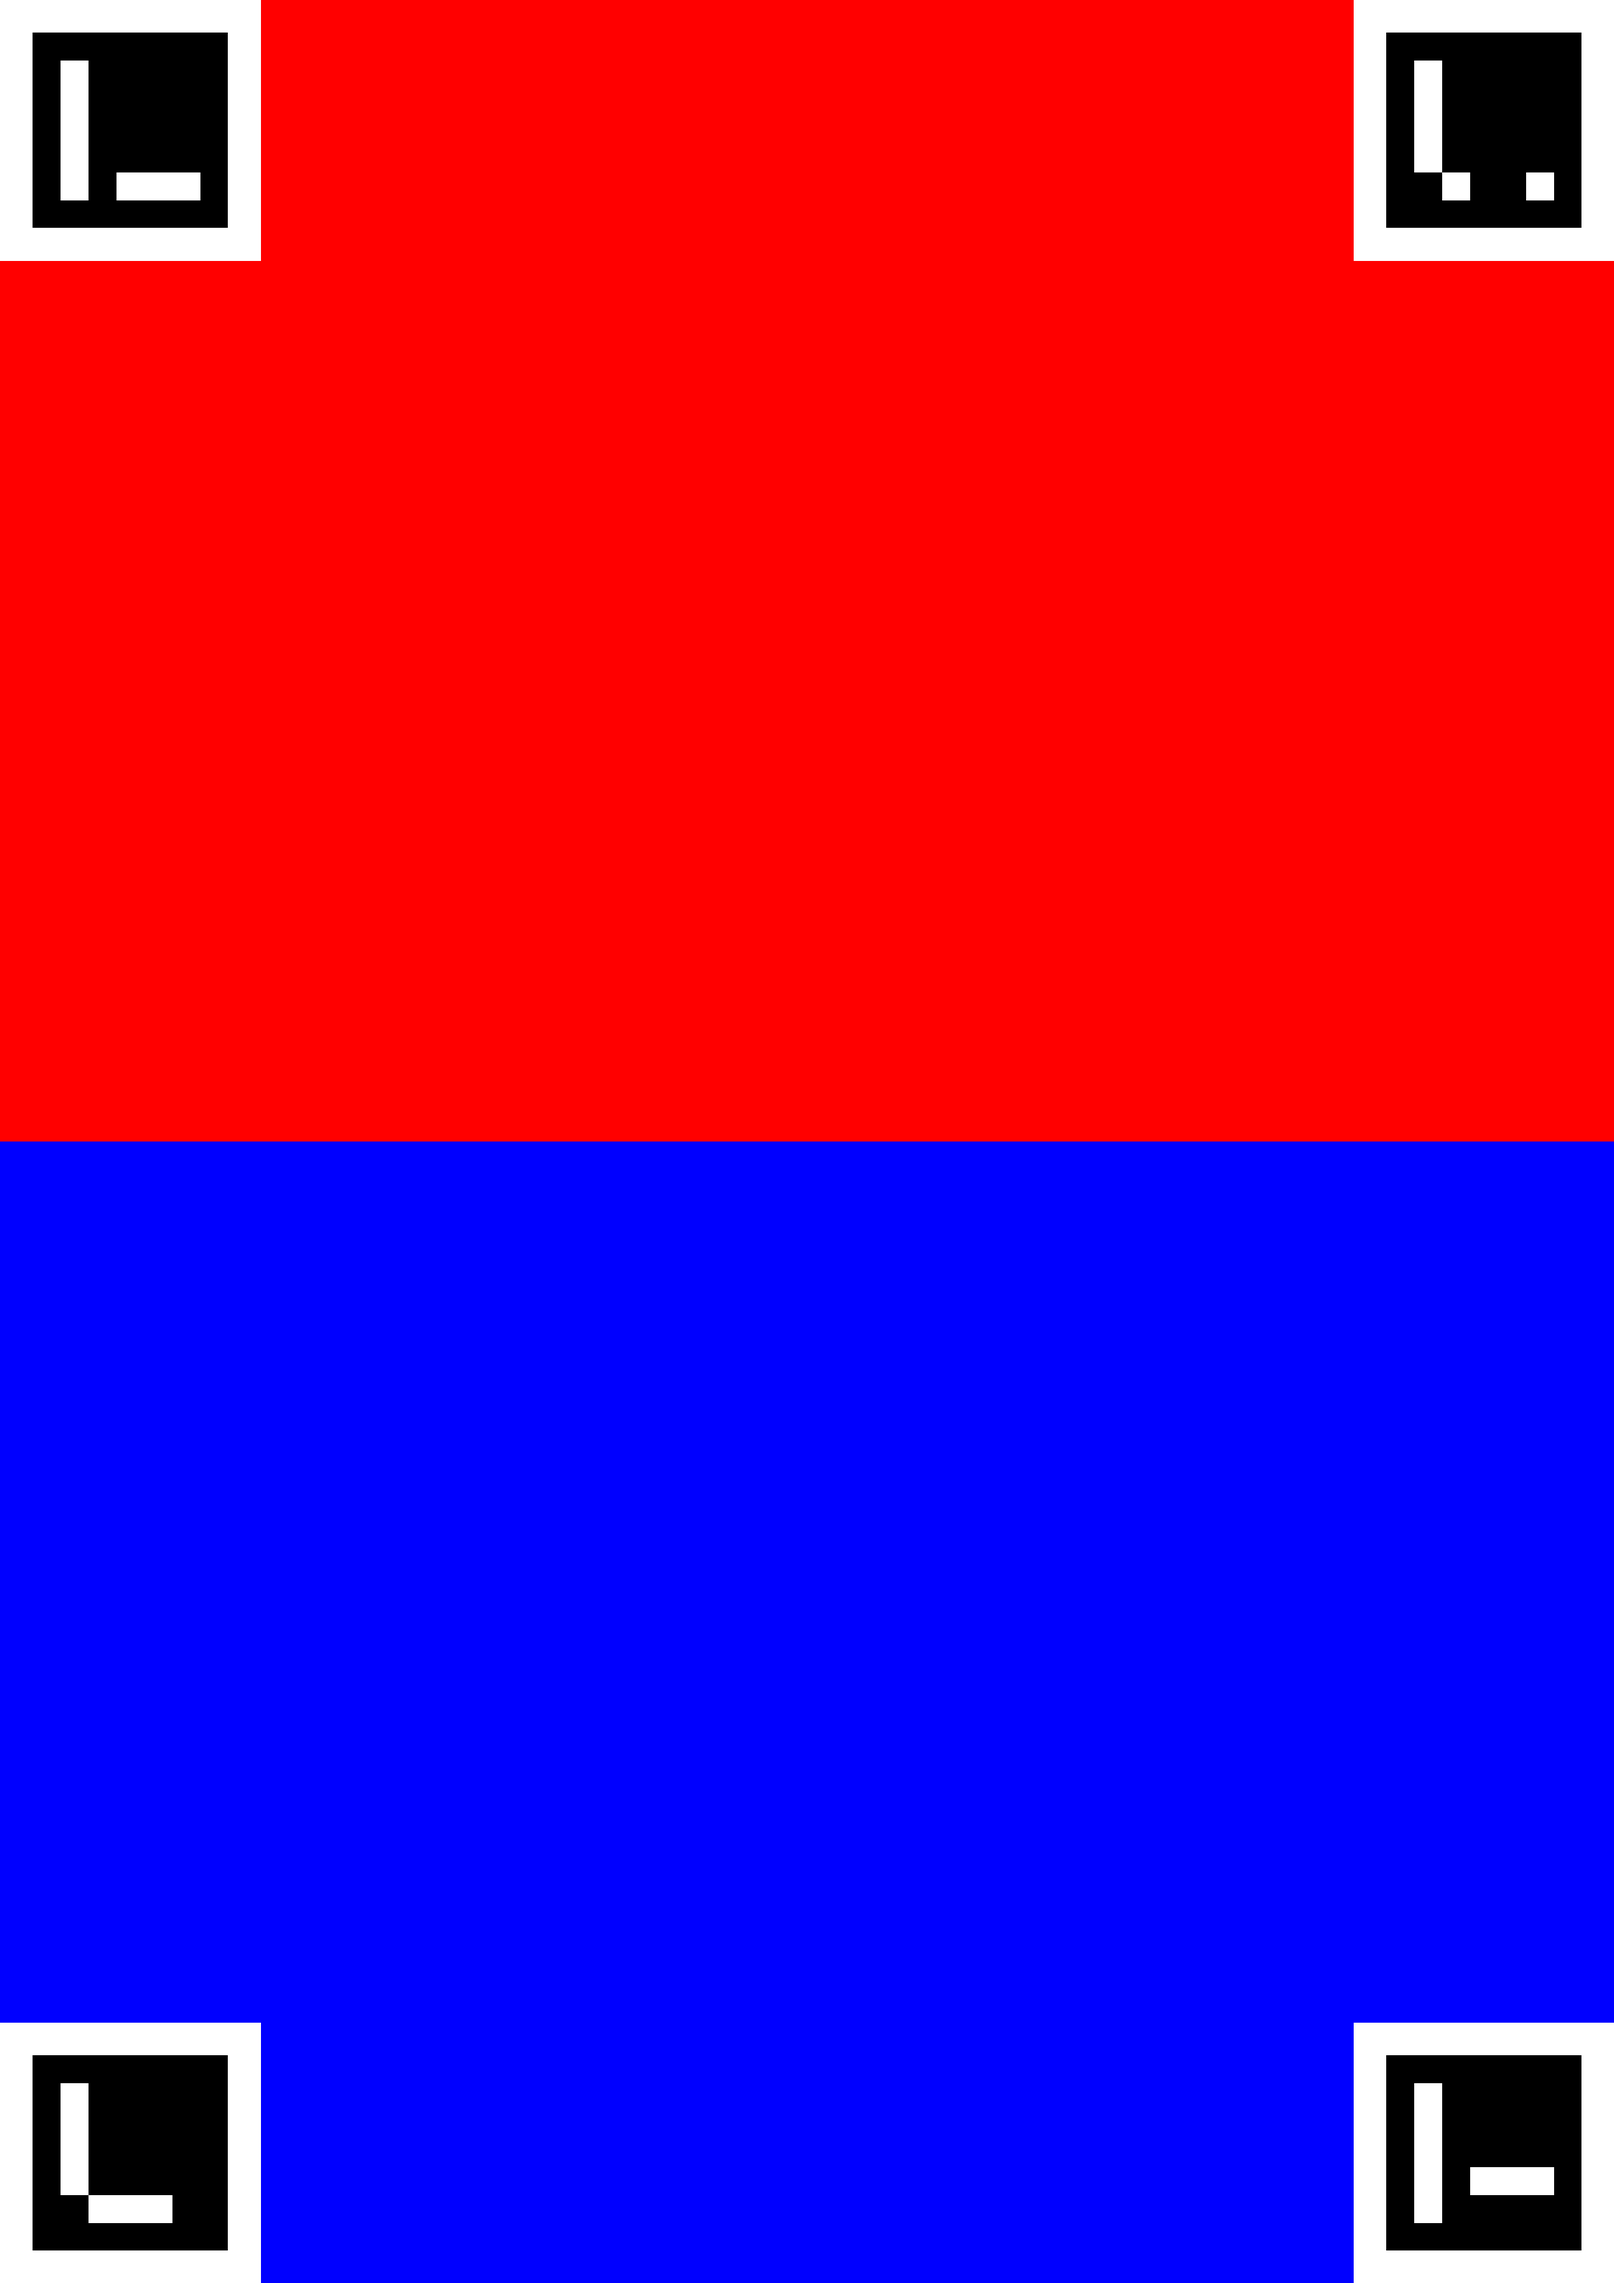
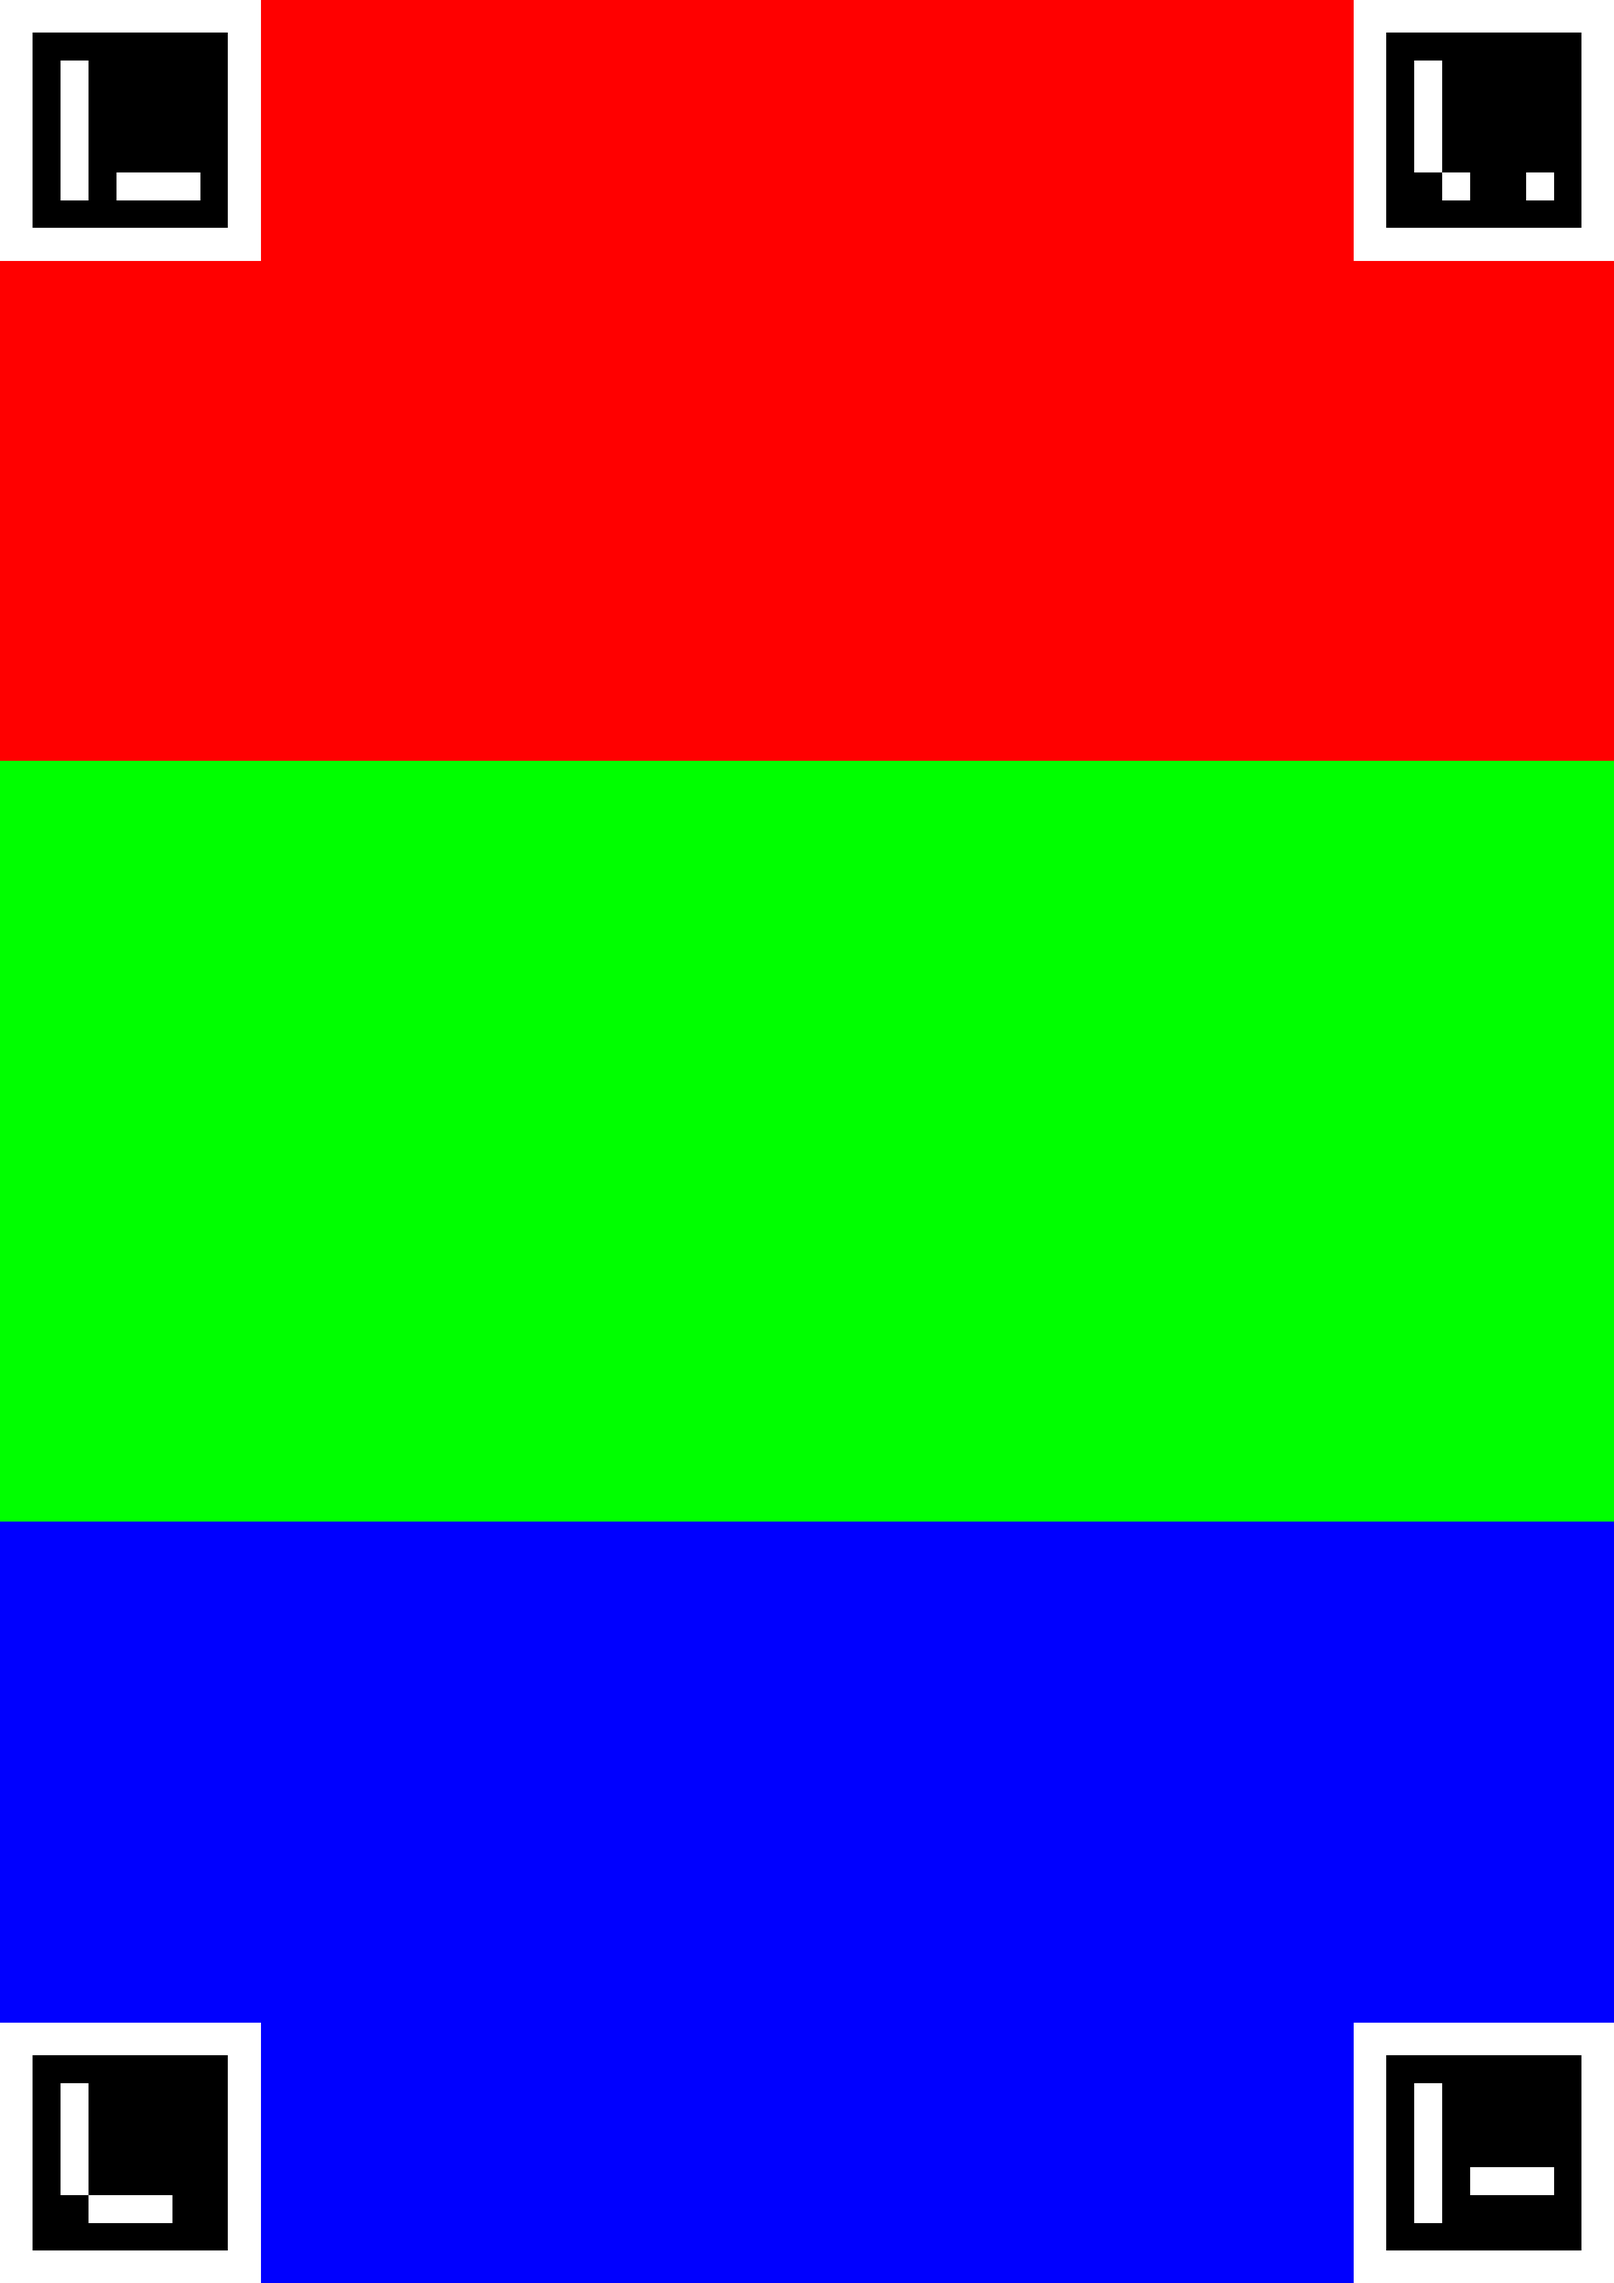
Added color dict

diff --git a/detectColors.py b/detectColors.py
@@ -19,9 +19,10 @@ ap.add_argument(
 )
 
 ap.add_argument(
-  "--n_colors",
-  type=int,
-  required=True
+  "--input_file",
+  type=str,
+  required=False,
+  default='./inputColors.txt'
 )
 
 args = vars(ap.parse_args())
@@ -85,17 +86,26 @@ cv2.imwrite("output.jpg", img)
 
 detected_avg_colors = []
 
-jump = int(H/args['n_colors'])
-for i in range(args['n_colors']):
+n_colors = 0
+with open(args['input_file'], 'r') as f:
+	for line in f.readlines():
+		if '[' in line:
+			n_colors += 1
+
+jump = int(H/n_colors)
+for i in range(n_colors):
     cropped_color = img[i*jump+safety_padding:(i+1)*jump-safety_padding]
-    n_pixels = (cropped_color.shape[0] * cropped_color.shape[1])
+    mean_color = cv2.mean(cropped_color)
+    detected_avg_colors.append((mean_color[2], mean_color[1], mean_color[0]))
 
-    b = np.sum(cropped_color[:,:,0]) / n_pixels
-    g = np.sum(cropped_color[:,:,1]) / n_pixels
-    r = np.sum(cropped_color[:,:,2]) / n_pixels
+with open(args['input_file'], 'r') as f:
+	lines = f.readlines()
+	for i, color in enumerate(detected_avg_colors):
+		if len(lines[i].split(' ')) != 2: 
+			print("Wrong input file")
+			exit()
+		lines[i] = lines[i].strip() + " detected=[" + (str(round(color[0])) + "," + str(round(color[1])) + "," + str(round(color[2])) + "]\n")
 
-    detected_avg_colors.append((r,g,b))
-
-with open('detectedColors.txt', 'w') as f:
-	for color in detected_avg_colors:
-		f.write(str(round(color[0])) + ", " + str(round(color[1])) + ", " + str(round(color[2])) + "\n")
+with open(args['input_file'], "w") as f:
+	for line in lines:
+		f.write(line)

diff --git a/classifyColor.py b/classifyColor.py
@@ -6,9 +6,9 @@ import colorsys
 ap = argparse.ArgumentParser()
 
 ap.add_argument(
-  "--template_colors",
+  "--input_file",
   type=str,
-  default='detectedColors.txt'
+  default='inputColors.txt'
 )
 
 ap.add_argument(
@@ -36,14 +36,17 @@ if args['method'] not in ['rgb', 'hsv']:
     exit()
 
 color = ast.literal_eval(args['color'])
-template_colors = []
+template_colors = {}
 
-with open(args['template_colors']) as f:
+with open(args['input_file']) as f:
     for line in f.readlines():
-        template_color = []
-        for val in line.split(","):
-            template_color.append(int(val))
-        template_colors.append(template_color)
+        splitted = line.split(' ')
+        if len(splitted) != 3:
+            print("Wrong input file")
+            exit()
+        template_colors[splitted[0][:-1]] = ast.literal_eval(splitted[-1].split('=')[1])
+
+print(template_colors)
 
 def distBetweenColors(col1, col2):
     if args['method'] == 'hsv':
@@ -54,8 +57,9 @@ def distBetweenColors(col1, col2):
 
 closest_color = 0
 closest_dist = 1e+8
+
 for i, template_color in enumerate(template_colors):
-    dist = distBetweenColors(template_color, color)
+    dist = distBetweenColors(template_colors[template_color], color)
     if dist < closest_dist:
         closest_color = i
         closest_dist = dist

diff --git a/generateBoard.py b/generateBoard.py
@@ -16,14 +16,23 @@ ap.add_argument("-t", "--type", type=str,
 	help="type of ArUCo tag to generate")
 
 ap.add_argument(
-  "--colors",
+  "--input_file",
   type=str,
-  default='[(255,0,0), (0,255,0), (0,0,255)]'
+  required=False,
+  default='./inputColors.txt'
 )
 
 args = vars(ap.parse_args())
 
-colors = ast.literal_eval(args['colors'])
+colors = {}
+
+with open(args['input_file'], 'r') as f:
+	for line in f.readlines():
+		splitted = line.split(' ')
+		if len(splitted) > 2:
+			print("Wrong input file")
+			exit()
+		colors[splitted[0][:-1]] = ast.literal_eval(splitted[1].split('=')[1])
 
 # define names of each possible ArUco tag OpenCV supports
 ARUCO_DICT = {
@@ -64,7 +73,7 @@ board = np.full((H, W, 3), 255, dtype="uint8")
 # Draw colors from top to bottom
 vertical_offset = (int)(H/len(colors))
 for i, color in enumerate(colors):
-	cv2.rectangle(board, (0,i*vertical_offset), (W,H), (color[2], color[1], color[0]), -1)
+	cv2.rectangle(board, (0,i*vertical_offset), (W,H), (colors[color][2], colors[color][1], colors[color][0]), -1)
 
 corners = ['topleft', 'topright', 'bottomleft', 'bottomright']
 corner_offsets = [(padding,padding), (padding, W-TAG_SIZE-padding), (H-TAG_SIZE-padding, padding), (H-TAG_SIZE-padding, W-TAG_SIZE-padding)]

diff --git a/README.md b/README.md
@@ -120,3 +120,12 @@ It is recommended to try classifying colors using both methods and pick better o
 # Example <a name="example"></a>
 
 TODO
+
+kamerka do detect colors
+wizualizacja zakresow??
+//cv Mean do average coloru z boarda
+//słownik colorów
+kółka do testowania hough circles
+//plik z kolorami razem z generate board
+
+generate board dostaje plik z kolorami, detect colors, dopisuje do tego pliku jak te kolory wygladaja na zdjeciu a classify colors dostaje gotowy plik zeby miec nazwy
